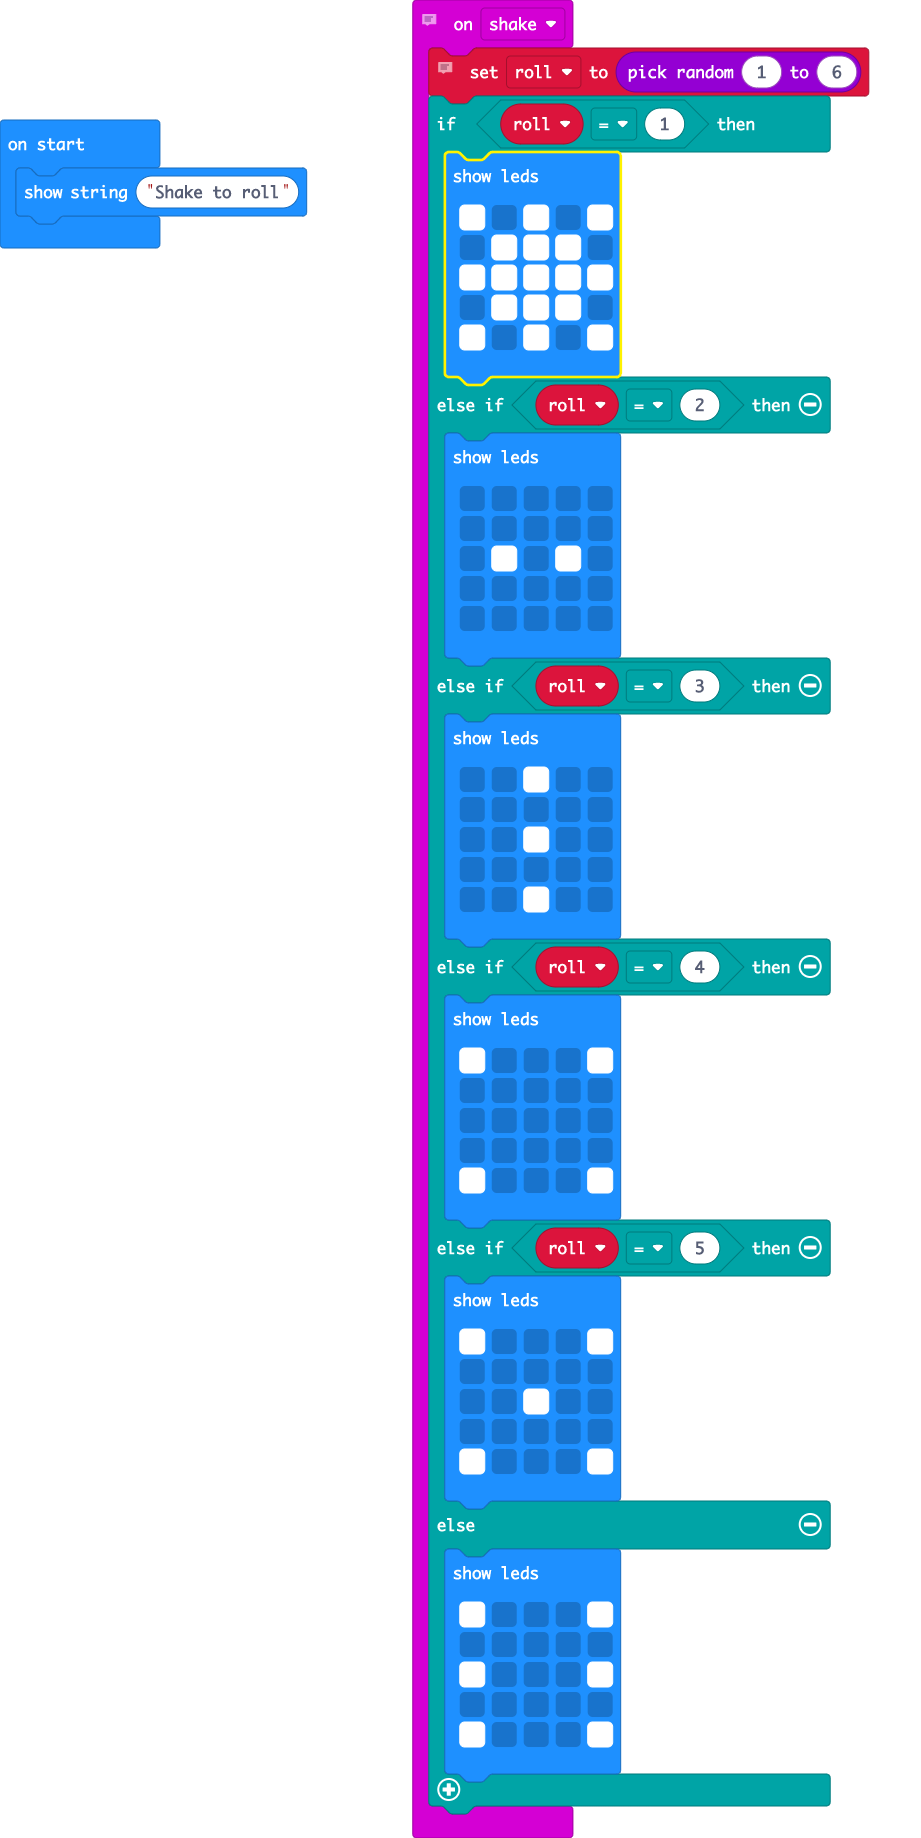
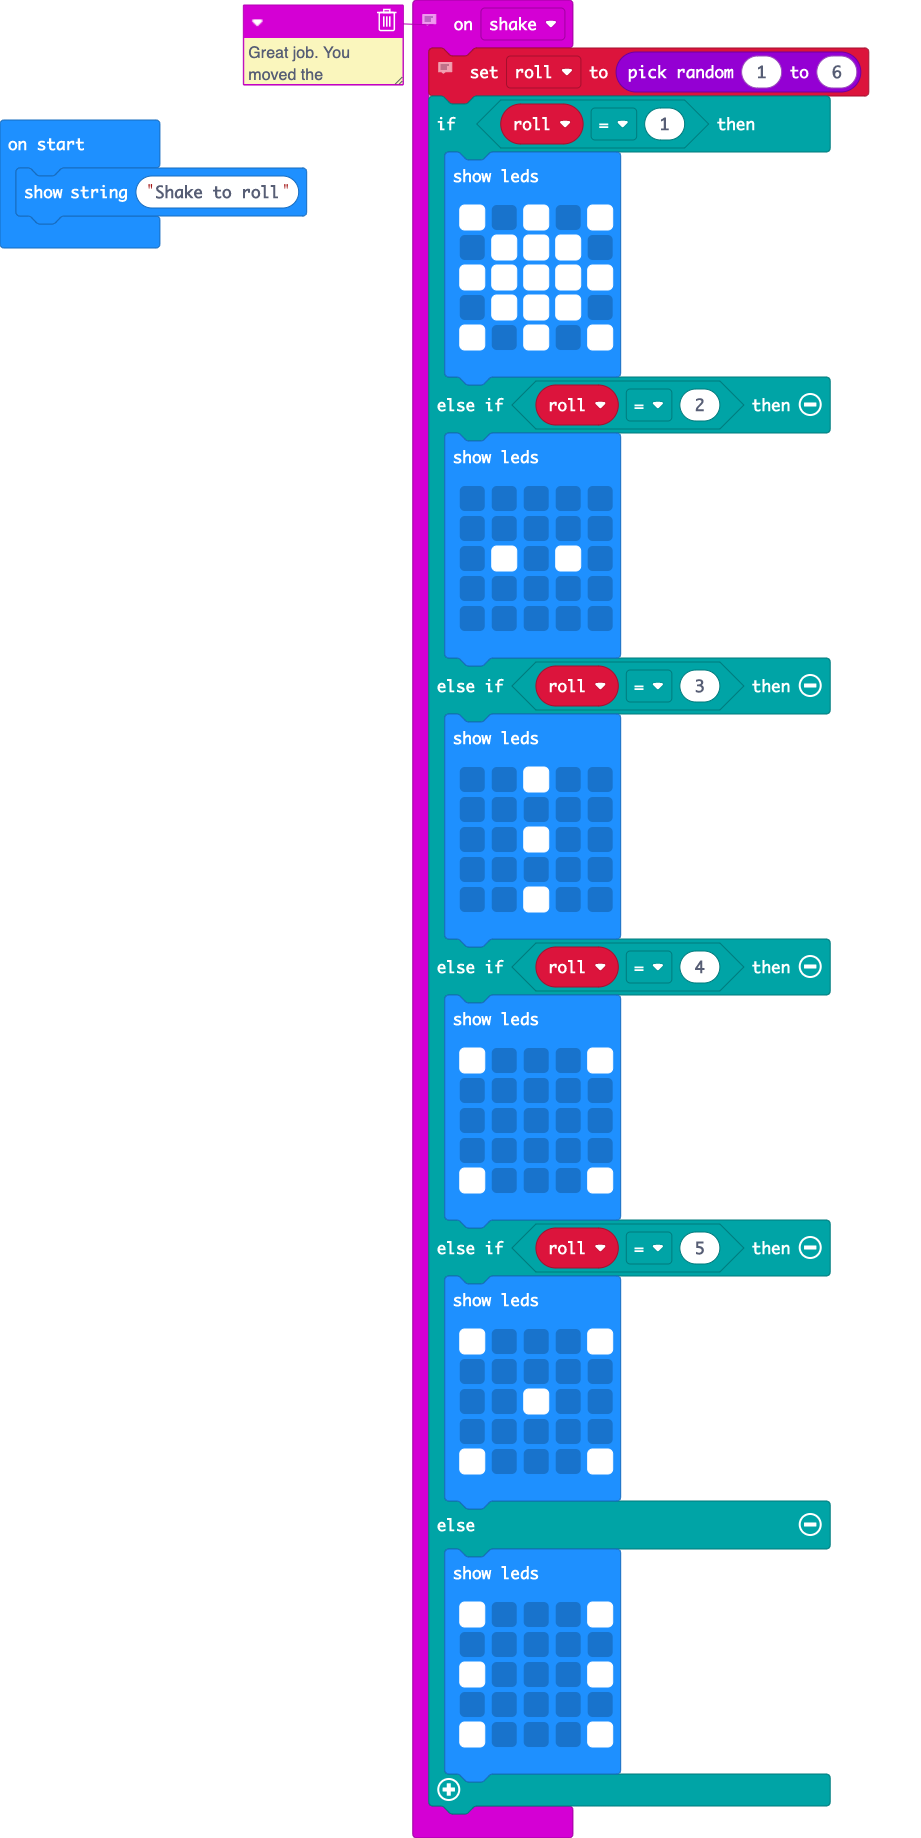
Update main.blocks, main.ts

Changed region(s): [[0.2432, 0.0, 0.456, 0.062], [0.6688, 0.093, 0.6992, 0.1861], [0.456, 0.093, 0.4864, 0.1861]]

diff --git a/main.ts b/main.ts
@@ -1,4 +1,5 @@
 // Great job. You moved the commands inside of the onShake event trigger. This way, the code will get executed when the micro:bit is shaken.
+// here is a comment.
 input.onGesture(Gesture.Shake, function () {
     // A variable is a place where your program can store a value. We need a place to store the result of the roll, so I created a variable called roll.
     // I have the program generate a random number between 1 and 6, and I assign that value to the roll variable
